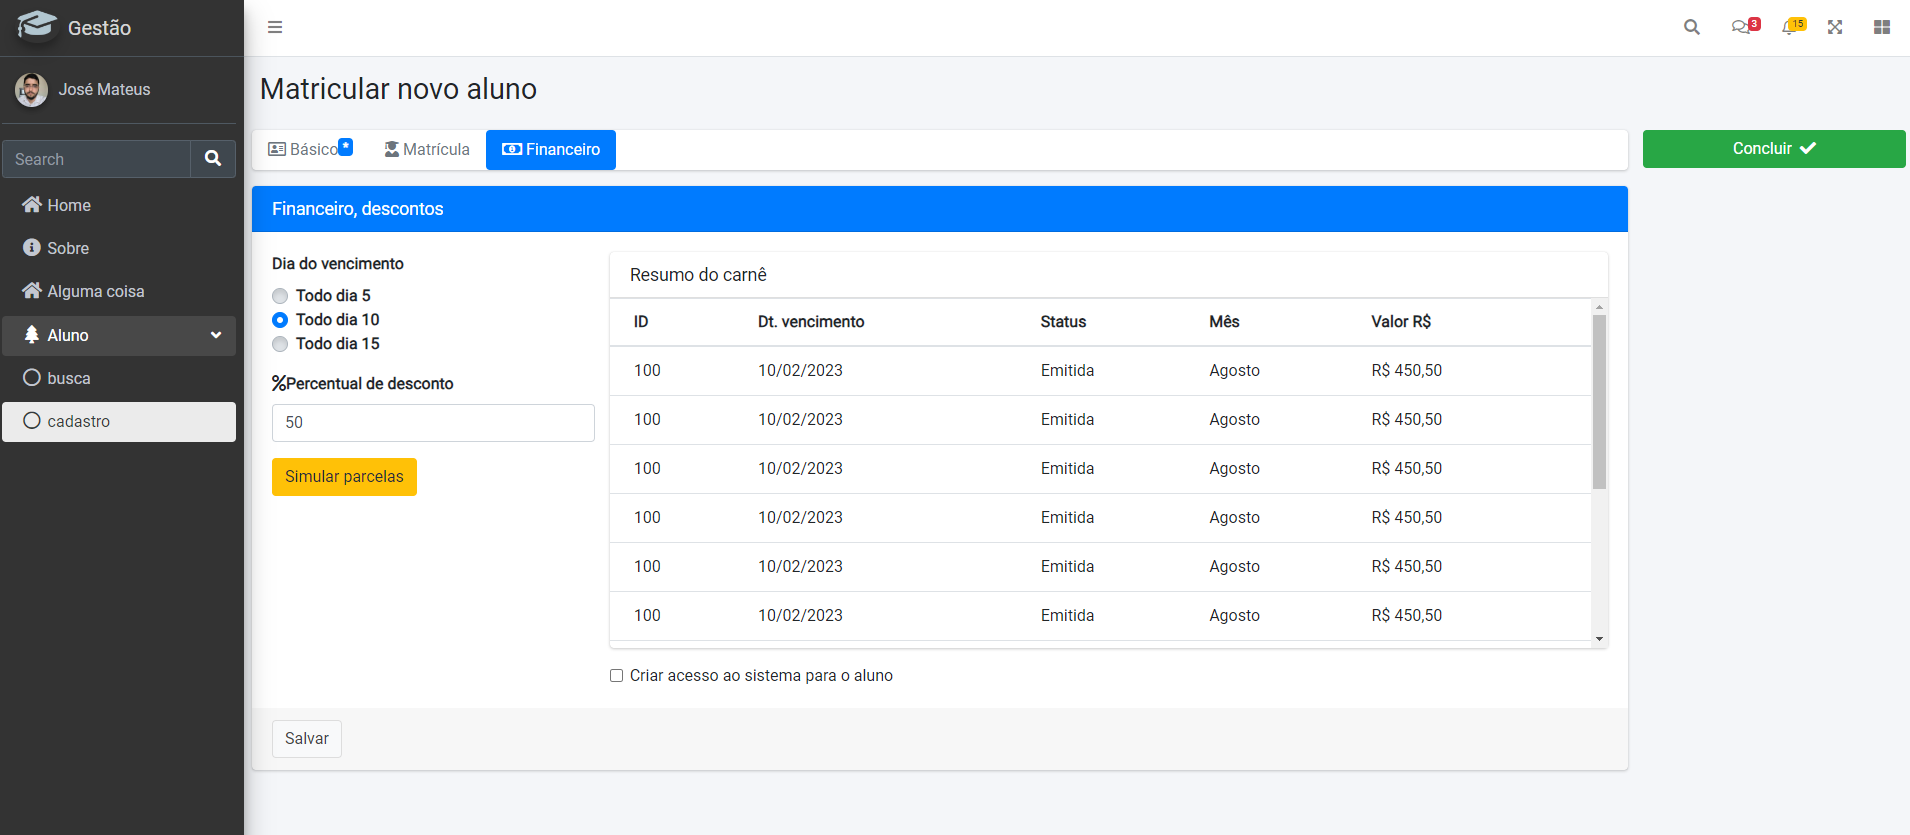
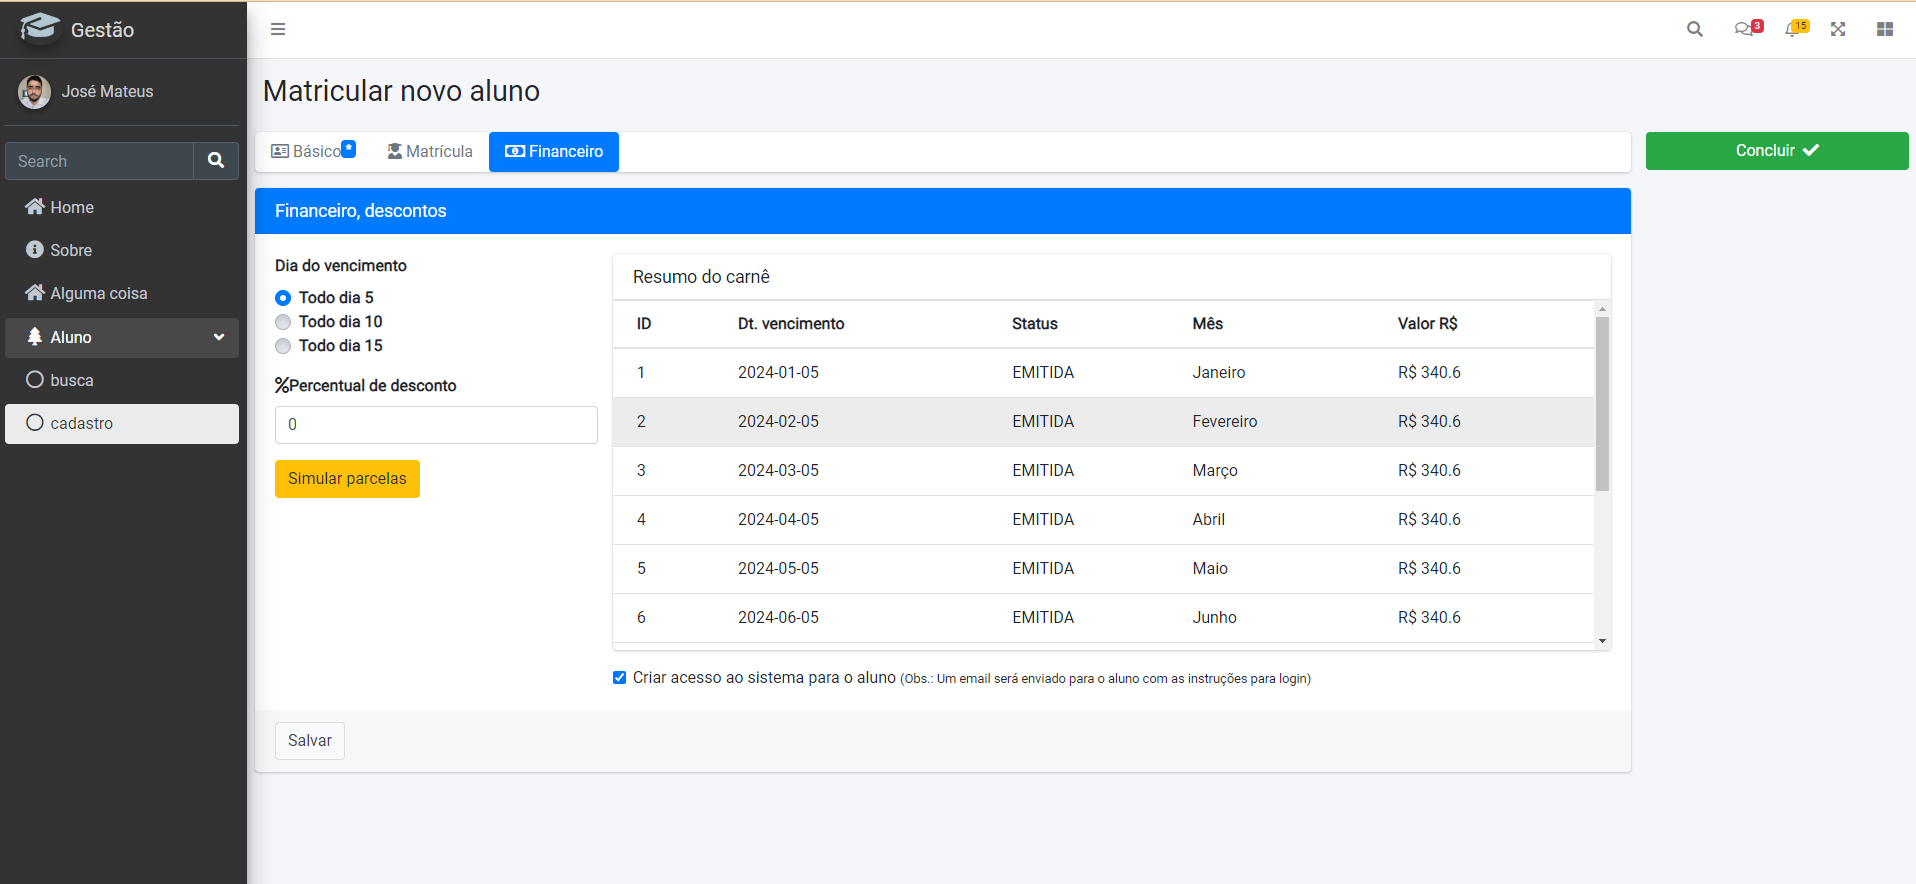
README hexagonal

diff --git a/frontend/src/components/FormFinanceiroAluno.vue b/frontend/src/components/FormFinanceiroAluno.vue
@@ -107,7 +107,11 @@
               id="exampleCheck1"
             />
             <label class="form-check-label" for="exampleCheck1"
-              >Criar acesso ao sistema para o aluno</label
+              >Criar acesso ao sistema para o aluno
+              <span class="small"
+                >(Obs.: Um email será enviado para o aluno com as instruções
+                para login)</span
+              ></label
             >
           </div>
         </div>

diff --git a/frontend/src/components/FormScholarInfo.vue b/frontend/src/components/FormScholarInfo.vue
@@ -27,6 +27,7 @@
               <option value="null">Selecione</option>
               <option v-for="s in turmas" :value="s.id">
                 {{ s.descricao }}
+                (vagas: {{ s.vagasDisponiveis }}, preço R$ : {{ s.valorBase }})
               </option>
             </select>
           </div>

diff --git a/gestao/REAMD.md b/gestao/REAMD.md
@@ -1,0 +1,12 @@
+## Arquitetura Hexagonal
+
+É um padrão de design de negócio onde focamos em camadas externas e internas. O objetivo é isolar as regras de negócio, o application core.
+- Application Core: regras de negócio;
+- Port: Interfaces de acesso ao mundo exterior (banco, terminal, brokers);
+- Adapters: implementação das portas;
+- Tipos de adapters: Inbound -> invocações externas (browsers via rest) OutBound -> invocações internas do application core;
+
+Vantegens: testabilidade, manutenabilidade, organização da regra de negócio.
+### Design:
+![img_1.png](img_1.png)
+
